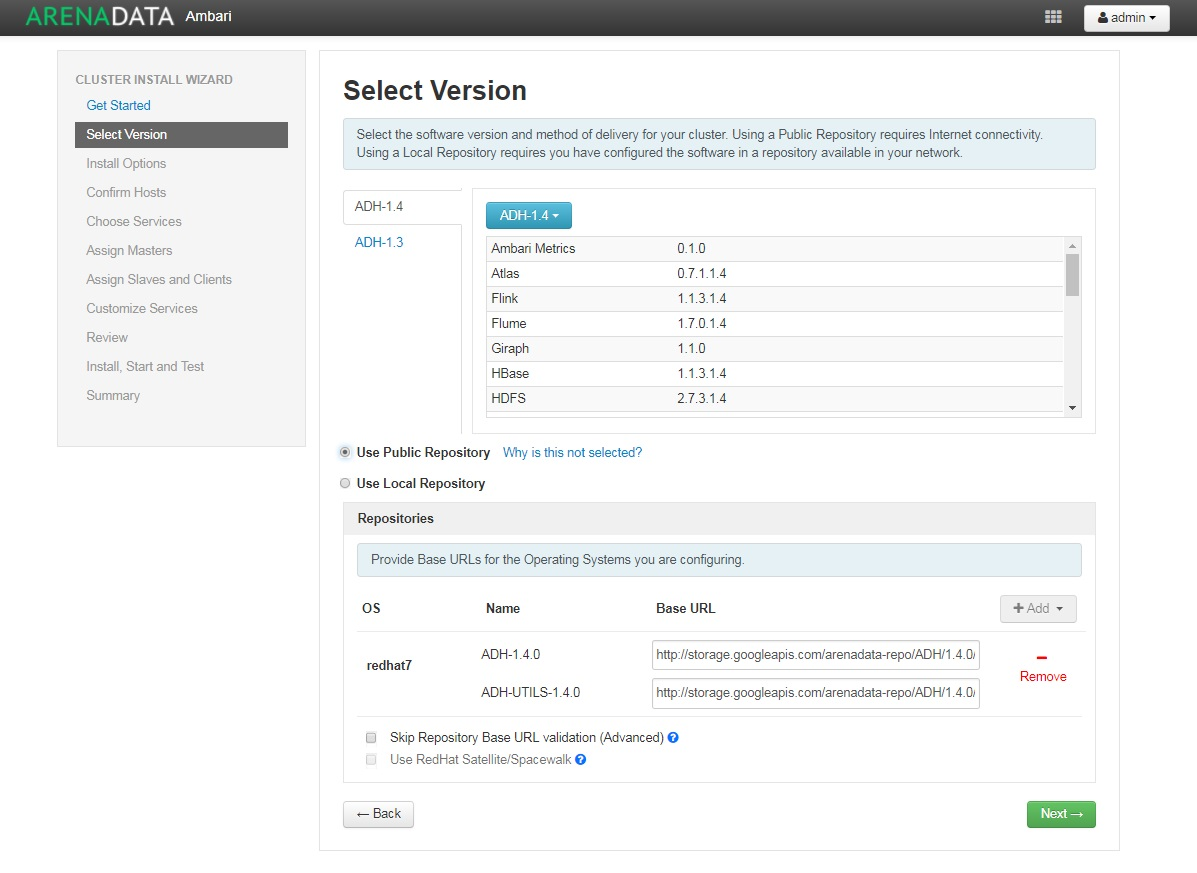
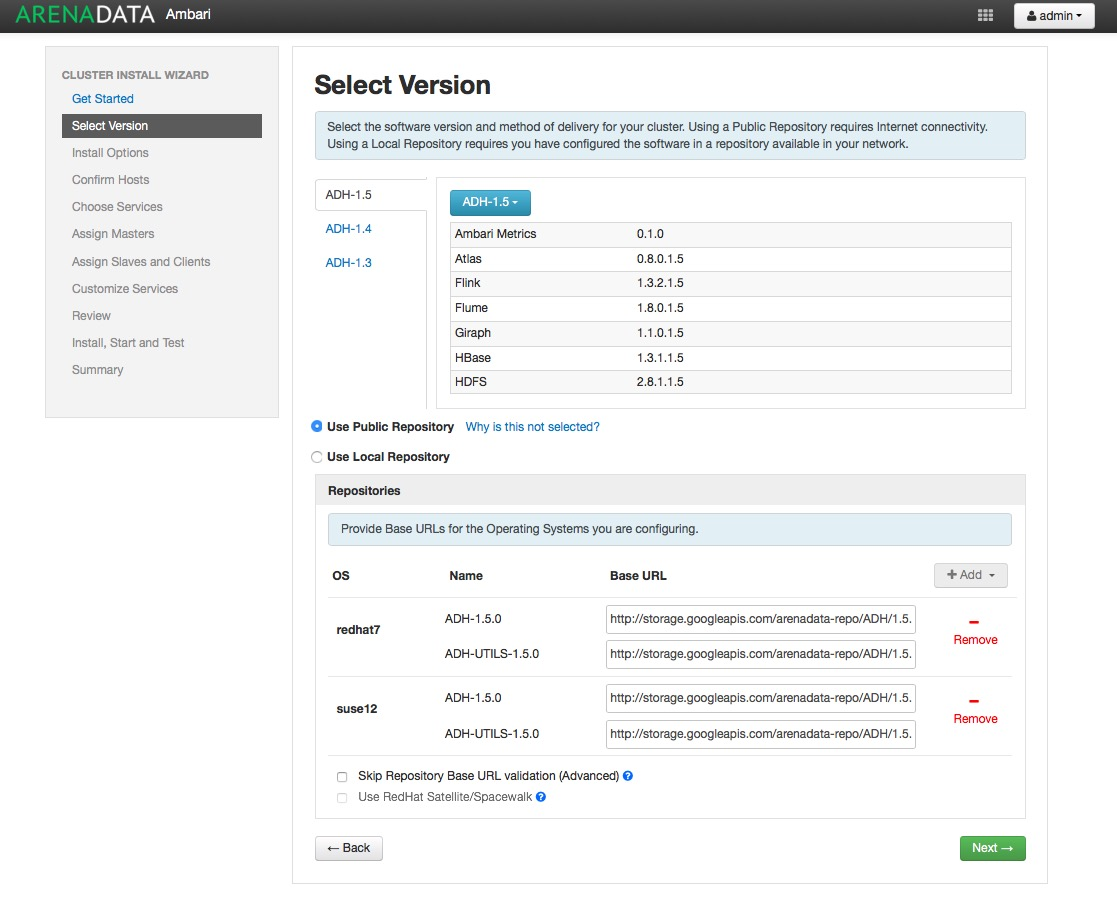
Added 1.5 configuration description & screens

diff --git a/source/install/master.rst b/source/install/master.rst
@@ -4,7 +4,7 @@
 Для создания кластера необходимо после входа в **Ambari** запустить мастер установки, нажав в главной экранной форме кнопку *Launch Install Wizard*. Мастер установки проводит по шагам, необходимым для создания нового кластера **ADH**. Некоторые этапы установки требуют особого внимания:
 
 
-+ Изменение URL-адресов репозиториев YUM;
++ Изменение URL-адресов репозиториев;
 + Ввод имен узлов и SSH-ключа или ручная установка Ambari-агентов;
 + Выбор компонентов;
 + Назначение мастер-узлов для компонентов;
@@ -13,21 +13,21 @@
 
 
 
-Изменение URL-адресов репозиториев YUM
-^^^^^^^^^^^^^^^^^^^^^^^^^^^^^^^^^^^^^^
+Изменение URL-адресов репозиториев
+^^^^^^^^^^^^^^^^^^^^^^^^^^^^^^^^^^
 
 
-Для того чтобы открыть список репозиториев **YUM**, необходимо в блоке "Stacks" установить флаг в поле *ADH 1.4* и раскрыть блок "Advanced Repository Options", при этом **Ambari** предлагает указать URL-адреса репозиториев (:numref:`Рис.%s.<install-img-7>`).
+Для того чтобы открыть список репозиториев, необходимо в блоке "Stacks" установить флаг в поле *ADH 1.5* и раскрыть блок "Advanced Repository Options", при этом **Ambari** предлагает указать URL-адреса репозиториев (:numref:`Рис.%s.<install-img-7>`).
 
 .. _install-img-7:
 
 .. figure:: imgs/install_pic7.jpg
    :align: center
-   
+
    Выбор стека
 
 
-В полях "Base URL" необходимо указать URL-адреса репозиториев, которые были получены при запуске скрипта *setup_repo.sh*. Данные URL-адреса всегда можно уточнить в файлах */etc/yum.repos.d/<имя репозитория>.repo*.
+В полях "Base URL" необходимо указать URL-адреса репозиториев, которые были получены при запуске скрипта *setup_repo.sh*. Данные URL-адреса всегда можно уточнить в файлах <имя репозитория>.repo*.
 
 Для установки из публичного репозитория **Arenadata** необходимо выбрать соответствующий пункт меню "Use Public Repository" (:numref:`Рис.%s.<install-img-7-2>`).
 
@@ -35,7 +35,7 @@
 
 .. figure:: imgs/install_pic7-2.jpg
    :align: center
-   
+
    Установка из публичного репозитория
 
 Репозитории можно обновить после развертывания кластера через **Ambari UI** (:menuselection:`"Admin --> Repositories"`).
@@ -59,11 +59,20 @@
 В случае если нет возможности предоставить закрытый ключ беспарольного **SSH**, следует произвести установку Ambari-агентов вручную. Для этого на каждом узле кластера необходимо выполнить следующие шаги:
 
 
-+ Установить репозиторий Ambari, скопировав файл */etc/yum.repos.d/ambari.repo* с сервера репозитория YUM;
++ Установить репозиторий Ambari, скопировав файл *ambari.repo* с сервера репозитория;
 + Установить Ambari-агент, выполнив команду:
 
-    :command:`yum install ambari-agent`
-    
++ RHEL/CentOS 7:
+  ::
+
+   yum install ambari-agent
+
++ SUSE/SLES 12:
+  ::
+
+   zypper install ambari-agent
+
+
 + Изменить конфигурацию Ambari-агента */etc/ambari-agent/conf/ambari-agent.ini* для определения его на сервере Ambari:
 
     + [server]
@@ -75,7 +84,7 @@
 + Запустить Ambari-агент, выполнив команду:
 
     :command:`ambari-agent start`
-    
+
 Ambari-агент зарегистрируется на сервере при его запуске.
 
 
@@ -89,7 +98,7 @@ Ambari-агент зарегистрируется на сервере при е
 
 .. figure:: imgs/install_pic8.jpg
    :align: center
-   
+
    Выбор компонентов
 
 
@@ -106,7 +115,7 @@ Ambari-агент зарегистрируется на сервере при е
 
 .. figure:: imgs/install_pic9.jpg
    :align: center
-   
+
    Назначение мастер-узлов
 
 .. important:: Если Hive Metastore использует новую базу данных *PostgreSQL*, компонент HIVE METASTORE не должен находиться на хосте AMBARI
@@ -124,7 +133,7 @@ Ambari-агент зарегистрируется на сервере при е
 
 .. figure:: imgs/install_pic10.jpg
    :align: center
-   
+
    Назначение Slave и Client узлов
 
 
@@ -141,7 +150,7 @@ Ambari-агент зарегистрируется на сервере при е
 
 .. figure:: imgs/install_pic11.jpg
    :align: center
-   
+
    Дополнительные настройки компонентов
 
 
@@ -161,7 +170,7 @@ Ambari-агент зарегистрируется на сервере при е
 
 .. figure:: imgs/install_pic12.jpg
    :align: center
-   
+
    Ход развертывания кластера
 
 
@@ -174,7 +183,7 @@ Ambari-агент зарегистрируется на сервере при е
 
 .. figure:: imgs/install_pic13.jpg
    :align: center
-   
+
    Информация о задачах хоста
 
 
